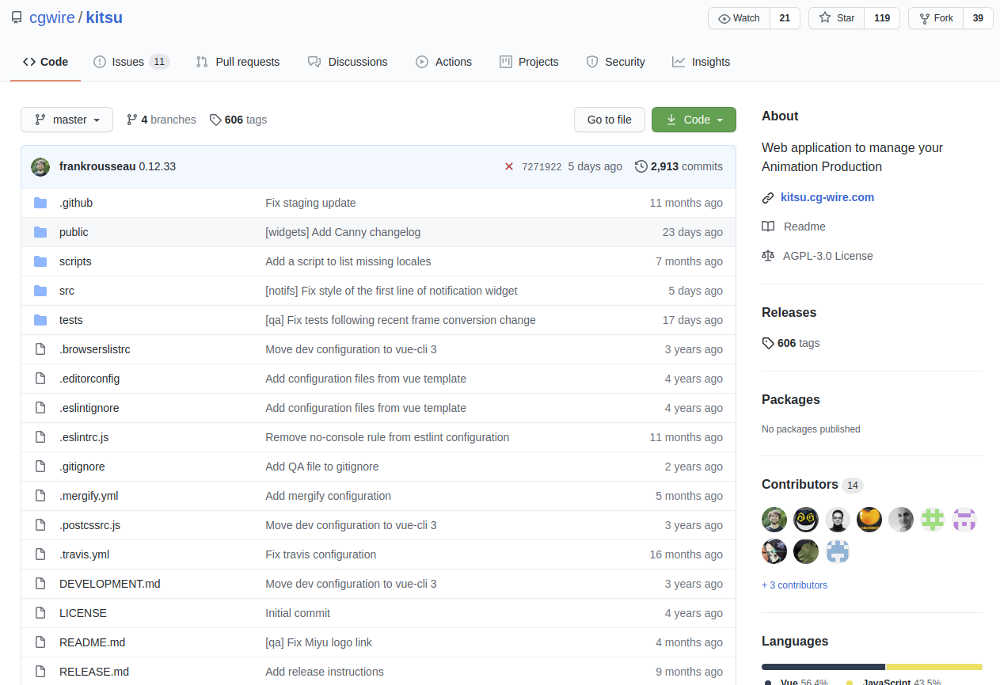
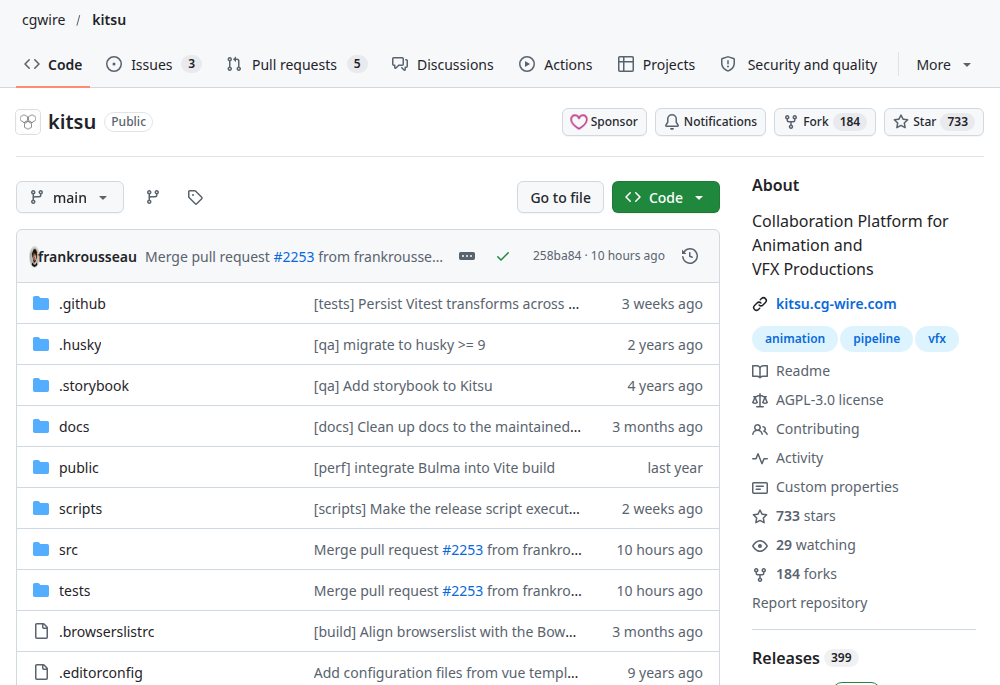
[community] Refresh GitHub and Canny screenshots, add dark variants
Canny's board theme is dark, so the light mode keeps the older light
capture.

diff --git a/app/pages/community.vue b/app/pages/community.vue
@@ -83,7 +83,14 @@
       <div class="flexrow-item illustration">
         <a class="" href="https://github.com/cgwire/kitsu">
           <NuxtImg
+            class="light-shot"
             src="/images/community/github.png"
+            alt="Github repository"
+            format="webp"
+          />
+          <NuxtImg
+            class="dark-shot"
+            src="/images/community/github-dark.png"
             alt="Github repository"
             format="webp"
           /><br />
@@ -117,7 +124,14 @@
       <div class="flexrow-item illustration">
         <a class="" href="https://cgwire.canny.io">
           <NuxtImg
+            class="light-shot"
             src="/images/community/canny.png"
+            alt="Canny page"
+            format="webp"
+          />
+          <NuxtImg
+            class="dark-shot"
+            src="/images/community/canny-dark.png"
             alt="Canny page"
             format="webp"
           /><br />
@@ -151,4 +165,8 @@ useSEO({
 <style lang="stylus" scoped>
 .illustration
     flex 1
+
+// Dark screenshots, swapped in by dark.styl.
+html:not(.has-dark-mode.theme-dark) .dark-shot
+    display none
 </style>
